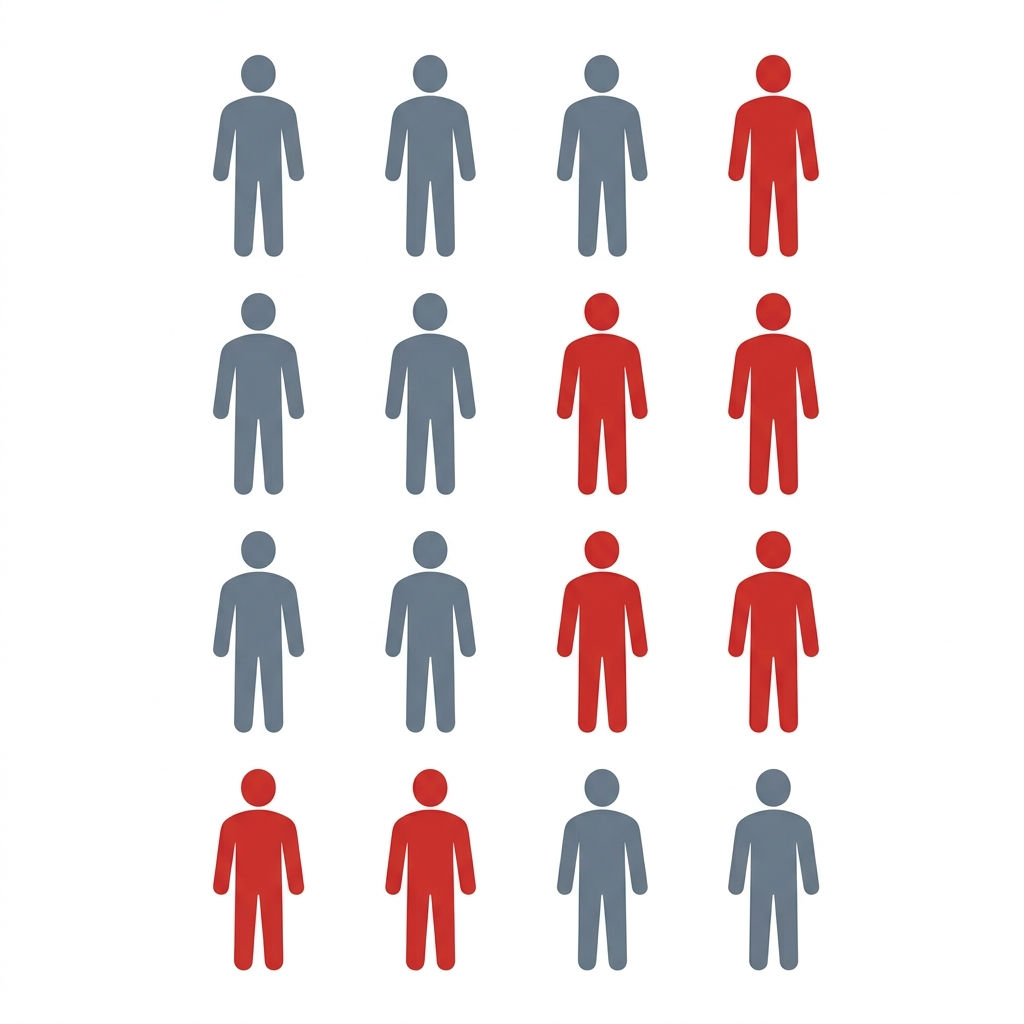
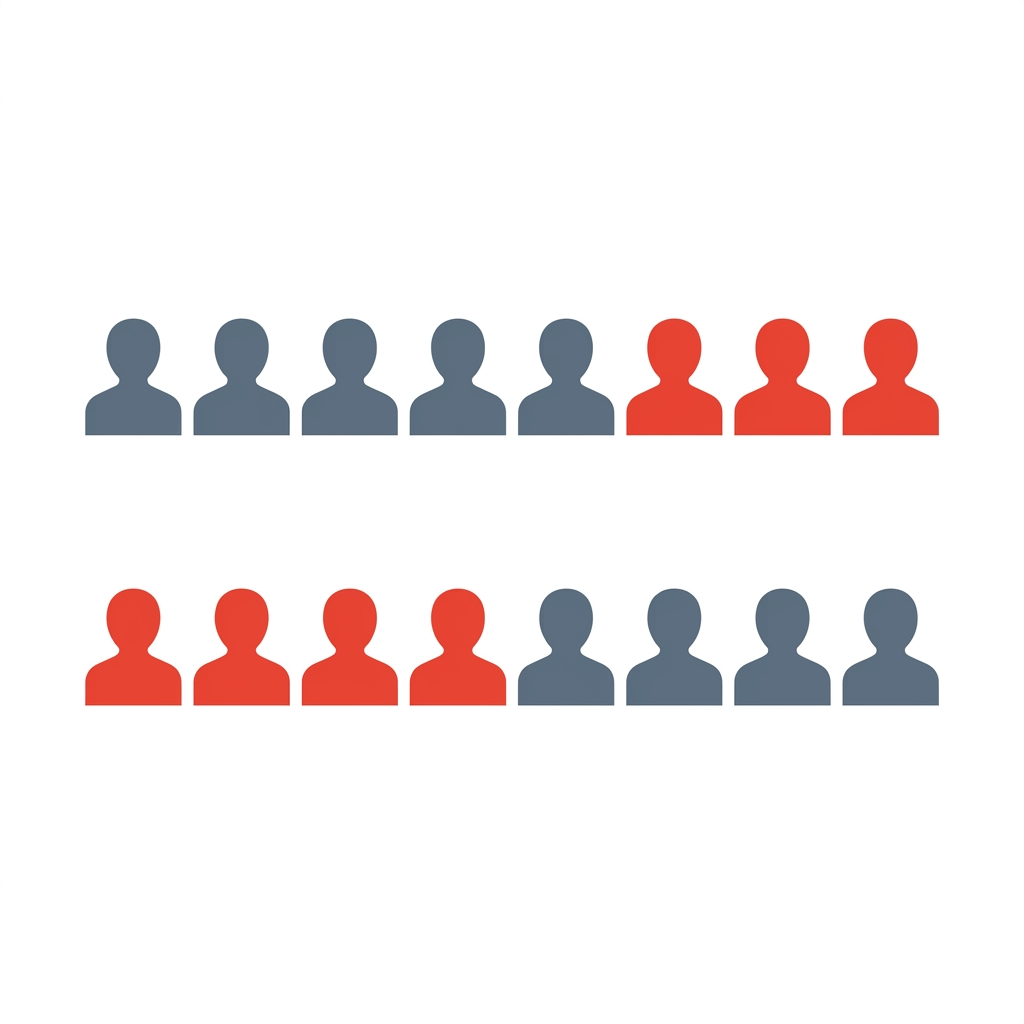
style: replace card 2 image with 2x8 grid (7 red, 9 grey) and adjust heights

diff --git a/financial-cardnews/index.html b/financial-cardnews/index.html
@@ -220,9 +220,9 @@
             </p>
           </div>
 
-          <!-- 일러스트 영역 - 라이트화 (생성된 이미지 삽입) -->
-          <div class="w-full h-[400px] flex items-center justify-center relative">
-            <img src="telecom_hack_25m.png" alt="25,000,000 Telecom Hack Infographic" class="w-auto h-full max-h-[380px] rounded-3xl object-contain shadow-sm" />
+          <!-- 일러스트 영역 - 라이트화 (생성된 이미지 삽입 - 16:9 와이드형) -->
+          <div class="w-full h-[320px] flex items-center justify-center relative my-4">
+            <img src="telecom_hack_25m.png" alt="25,000,000 Telecom Hack Infographic" class="w-auto h-full max-h-[300px] object-contain" />
           </div>
 
           <div class="flex items-center justify-between border-t border-slate-100 pt-6">
